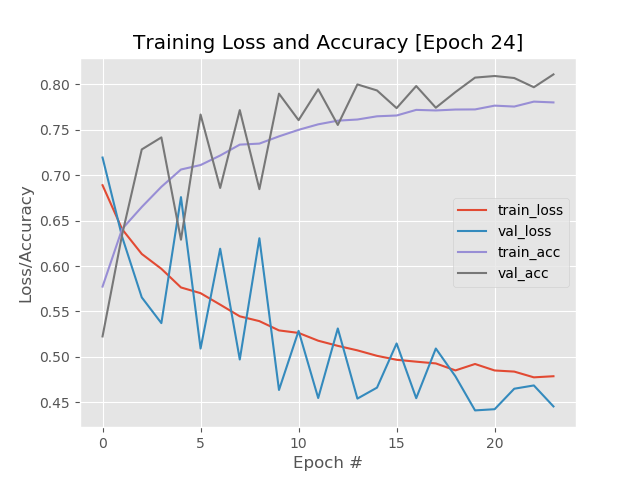
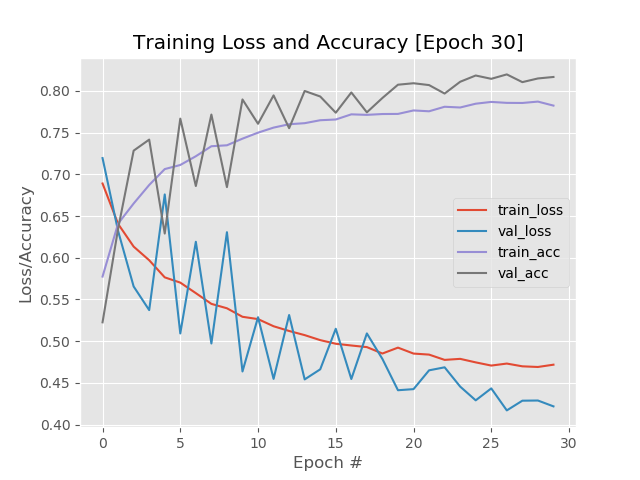
Completed ShallowNet on Adam optimizer

diff --git a/run_model_numpy.py b/run_model_numpy.py
@@ -11,7 +11,7 @@ from models.callbacks import TrainingMonitor
 import os
 
 #FILE LOCATIONS
-model_name = 'ShallowNet_RMSprop'
+model_name = 'ShallowNet_ADAM'
 # data location
 data_folder = '/Users/clidev/Desktop/Capstone_Project/pnumonia/X-Ray-CNN/image_as_numpy/'
 # output path
@@ -22,7 +22,7 @@ monitor_path = '/Users/clidev/Desktop/Capstone_Project/pnumonia/X-Ray-CNN/monito
 # load the model
 model = ShallowNet.build(width = 128, height = 128, depth = 1, classes = 1, dense_size = 2000)
 #model = BaselineNet.build(width = 128, height = 128, depth = 1, classes = 1, dense_size = 2000)
-model.compile(loss = 'binary_crossentropy', optimizer = optimizers.RMSprop(lr = 1e-4),
+model.compile(loss = 'binary_crossentropy', optimizer = optimizers.Adam(lr = 1e-4),
 	metrics = ['accuracy'])
 
 model.summary()

diff --git a/models/BaselineNet.py b/models/BaselineNet.py
@@ -44,15 +44,12 @@ class BaselineNet:
                 model.add(Flatten())
 
                 model.add(Dense(dense_size, activation = 'relu'))
-                model.add(Dropout(0.5))
+                #model.add(Dropout(0.5))
 
                 # first (and only) set of FC => RELU layers
-                model.add(Dense(classes))
+                model.add(Dense(classes, activation = 'sigmoid'))
 
-                if classes < 2:
-                        model.add(Activation('sigmoid'))
-                else:
-                        model.add(Activation('softmax'))
+                
 
                 # return the constructed network architecture
                 return model
